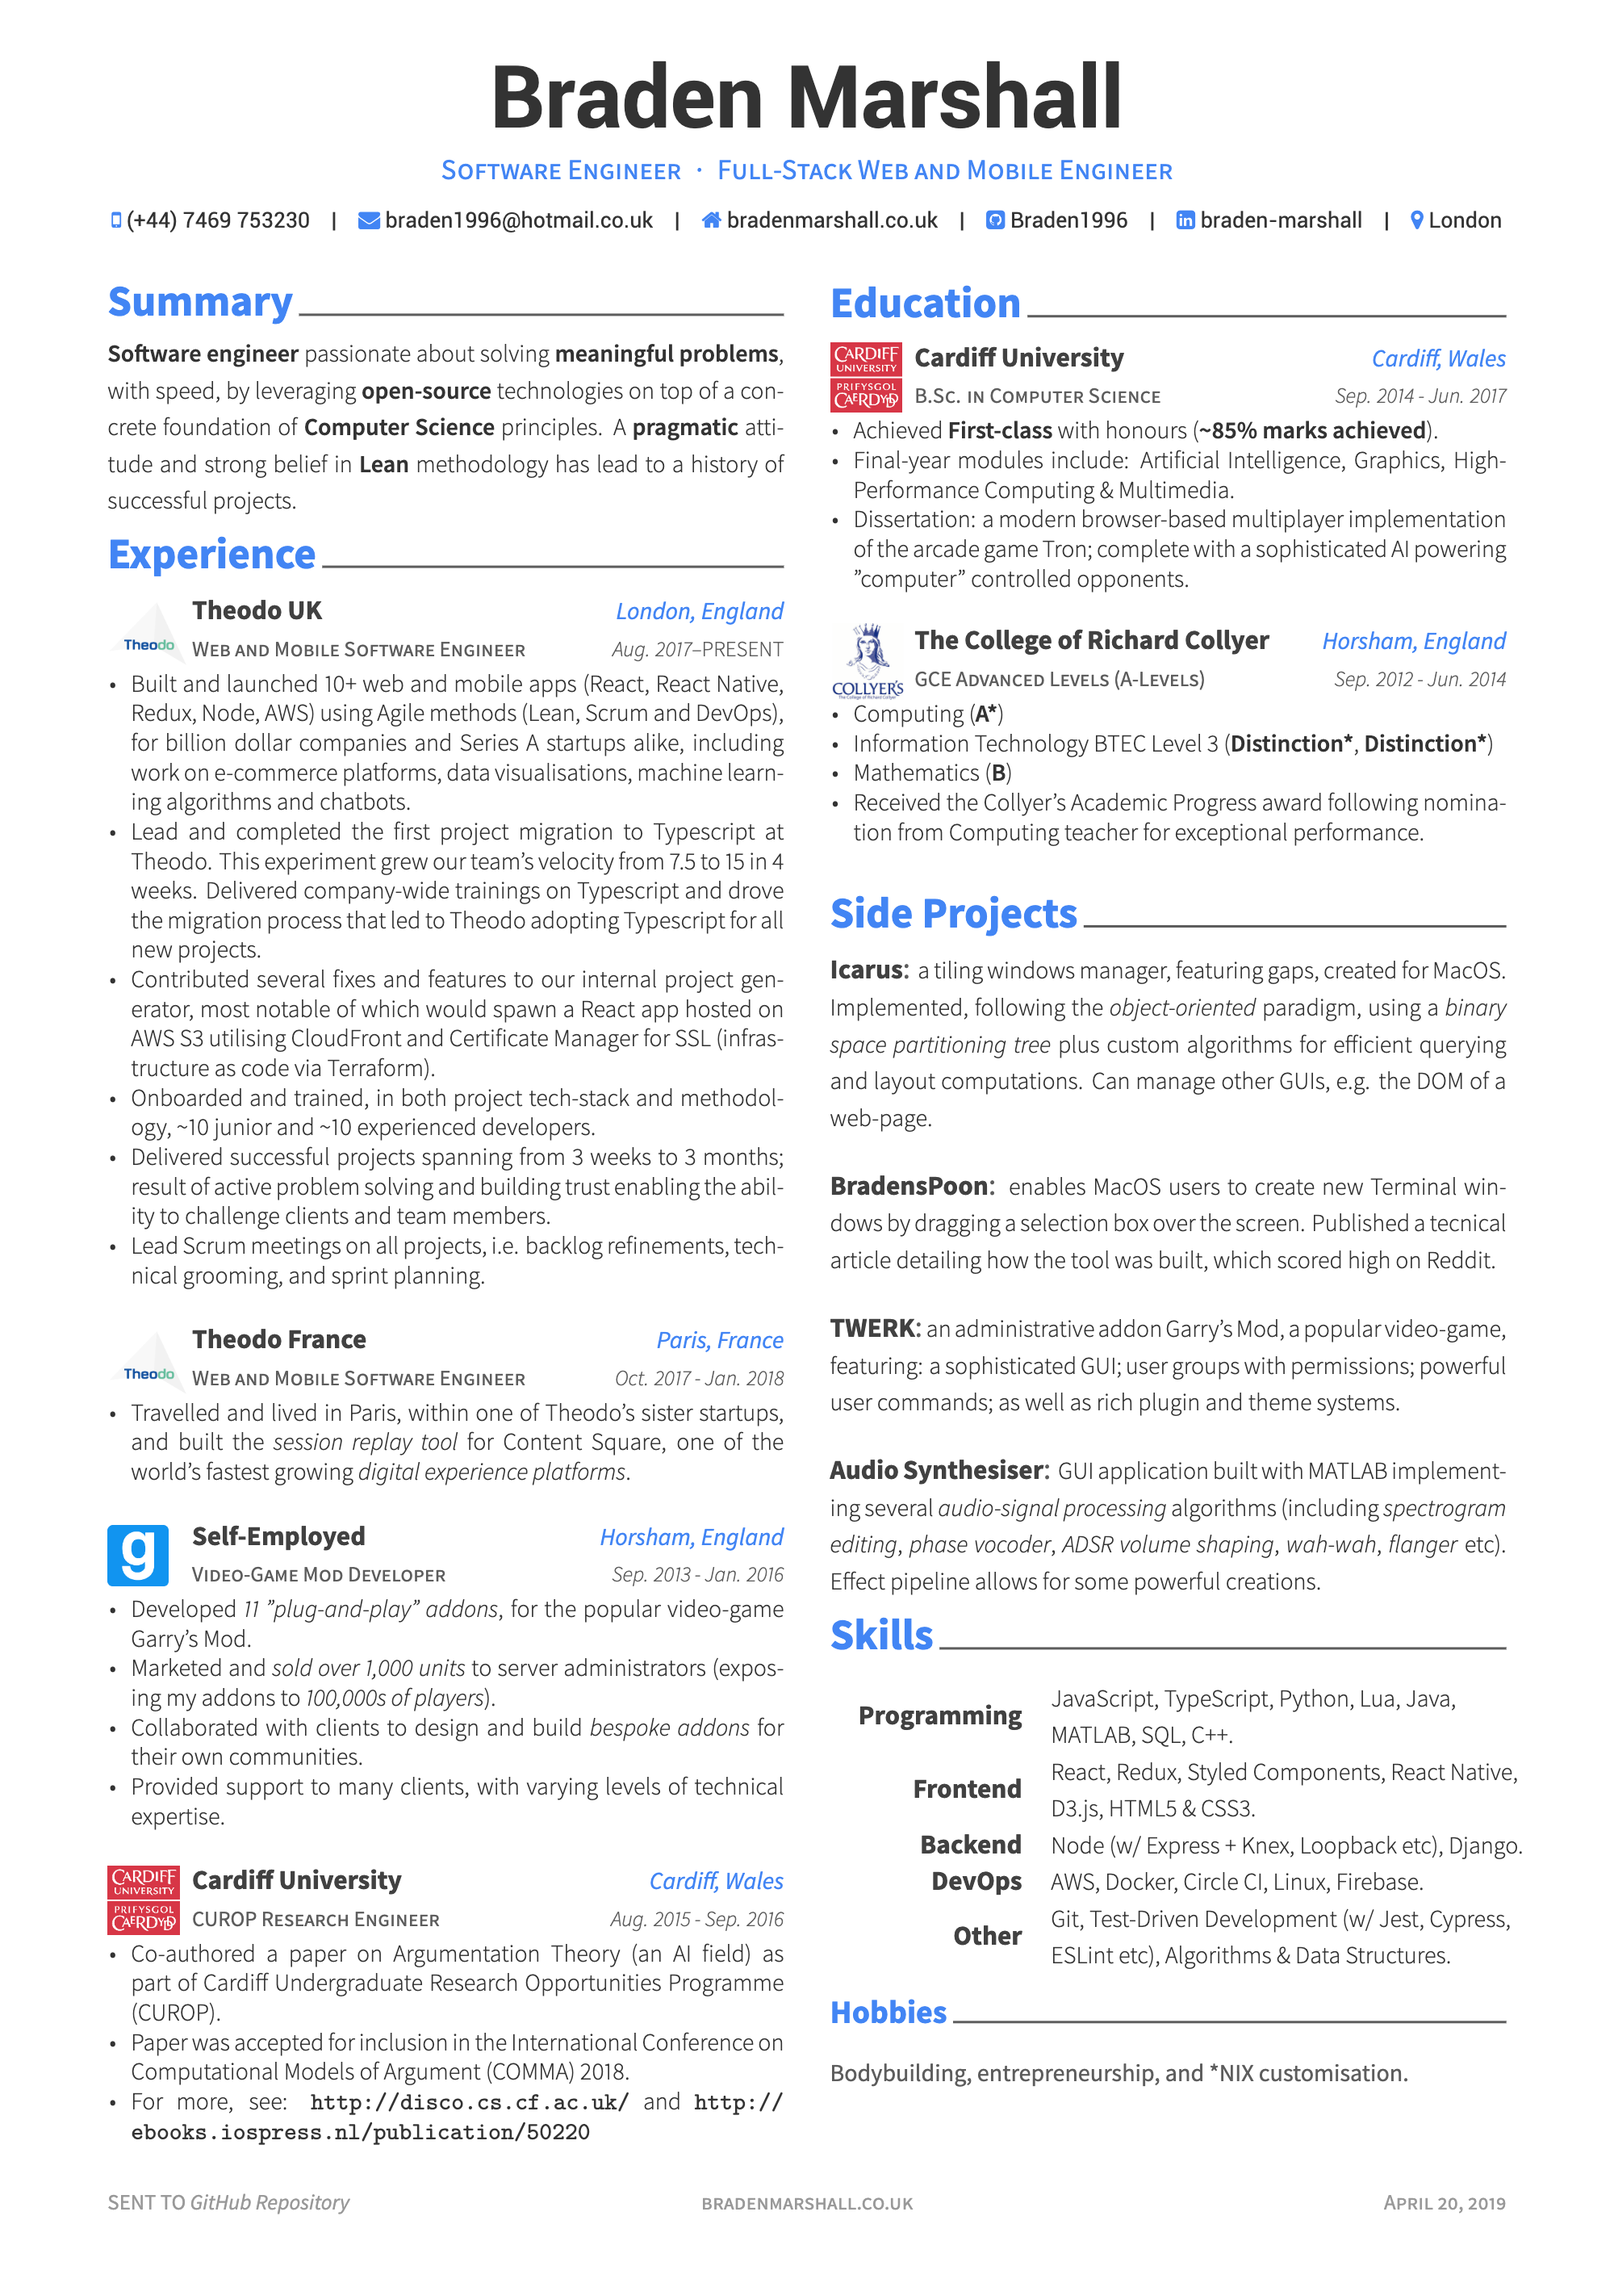
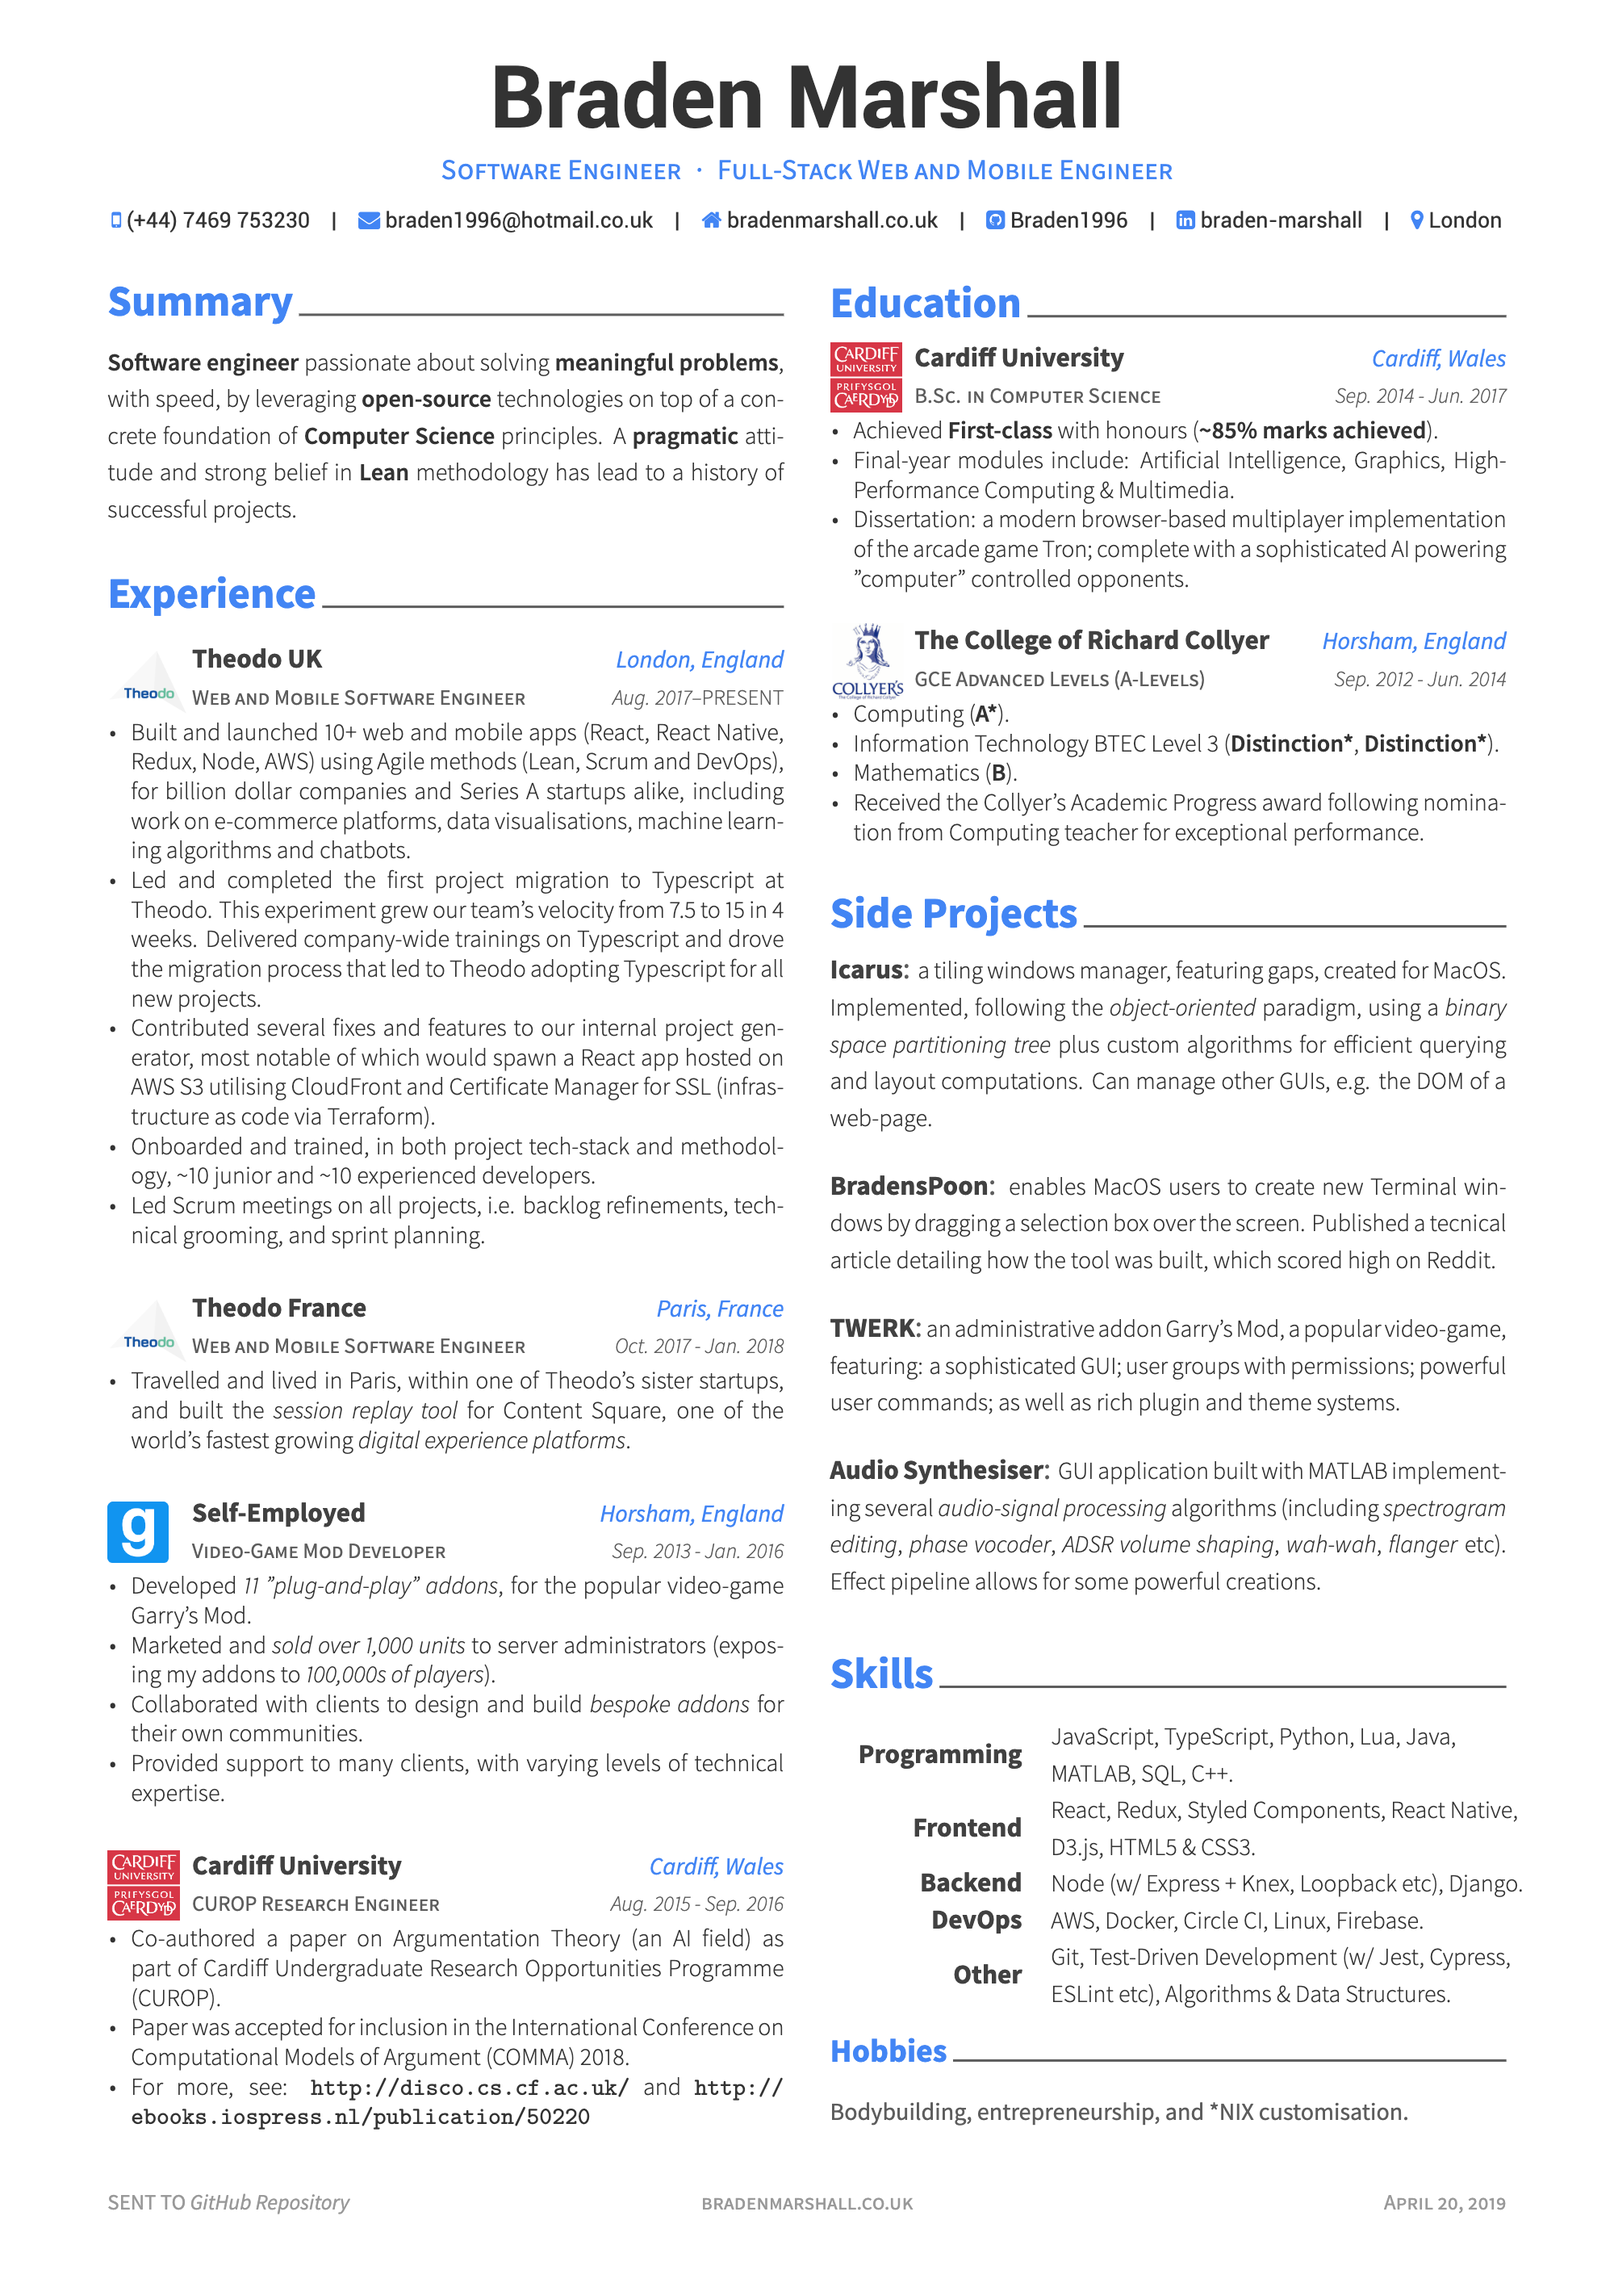
Slightly reworded Scrum meeting section in Experience.

Changed region(s): [[0.062, 0.1556, 0.93, 0.9335]]

diff --git a/resume/1_experience.tex b/resume/1_experience.tex
@@ -1,4 +1,3 @@
-\vspace{-3mm}
 \cvsection{Experience}
 
 \begin{cventries}
@@ -11,11 +10,10 @@
     {
       \begin{cvitems}
         \item Built and launched 10+ web and mobile apps (React, React Native, Redux, Node, AWS) using Agile methods (Lean, Scrum and DevOps), for billion dollar companies and Series A startups alike, including work on e-commerce platforms, data visualisations, machine learning algorithms and chatbots.
-        \item Lead and completed the first project migration to Typescript at Theodo. This experiment grew our team's velocity from 7.5 to 15 in 4 weeks. Delivered company-wide trainings on Typescript and drove the migration process that led to Theodo adopting Typescript for all new projects.
+        \item Led and completed the first project migration to Typescript at Theodo. This experiment grew our team's velocity from 7.5 to 15 in 4 weeks. Delivered company-wide trainings on Typescript and drove the migration process that led to Theodo adopting Typescript for all new projects.
         \item Contributed several fixes and features to our internal project generator, most notable of which would spawn a React app hosted on \href{https://aws.amazon.com/s3/}{AWS S3} utilising \href{https://aws.amazon.com/cloudfront/}{CloudFront} and \href{https://aws.amazon.com/certificate-manager/}{Certificate Manager} for SSL (infrastructure as code via \href{https://www.terraform.io/}{Terraform}).
         \item Onboarded and trained, in both project tech-stack and methodology, \textasciitilde{}10 junior and \textasciitilde{}10 experienced developers.
-        \item Delivered successful projects spanning from 3 weeks to 3 months; result of active problem solving and building trust enabling the ability to challenge clients and team members.
-        \item Lead Scrum meetings on all projects, i.e. backlog refinements, technical grooming, and sprint planning. 
+        \item Led Scrum meetings on all projects, i.e. backlog refinements, technical grooming, and sprint planning. 
       \end{cvitems}
     }
     {\multirow{2}{1.1cm}{\parbox{1\linewidth}{\includegraphics[scale=0.055]{logo/theodo.png}}}}

diff --git a/resume/2_education.tex b/resume/2_education.tex
@@ -24,9 +24,9 @@
     {Sep. 2012 - Jun. 2014}
     {
       \begin{cvitems}
-        \item {Computing (\textbf{A*})}
-        \item {Information Technology BTEC Level 3 (\textbf{Distinction*}, \textbf{Distinction*})}
-        \item {Mathematics (\textbf{B})}
+        \item {Computing (\textbf{A*}).}
+        \item {Information Technology BTEC Level 3 (\textbf{Distinction*}, \textbf{Distinction*}).}
+        \item {Mathematics (\textbf{B}).}
         \item {Received the \href{https://www.westsussextoday.co.uk/news/outstanding-students-recognised-at-collyer-s-1-6481659}{Collyer's Academic Progress} award following nomination from Computing teacher for exceptional performance.}
       \end{cvitems}
     }
